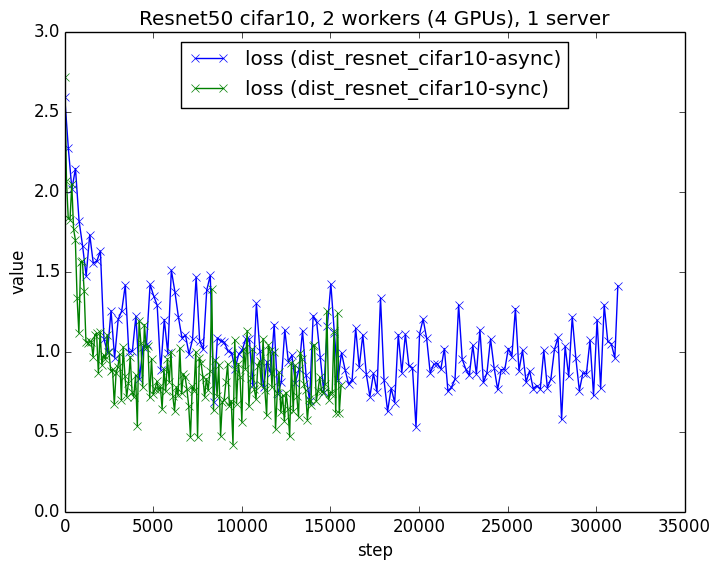
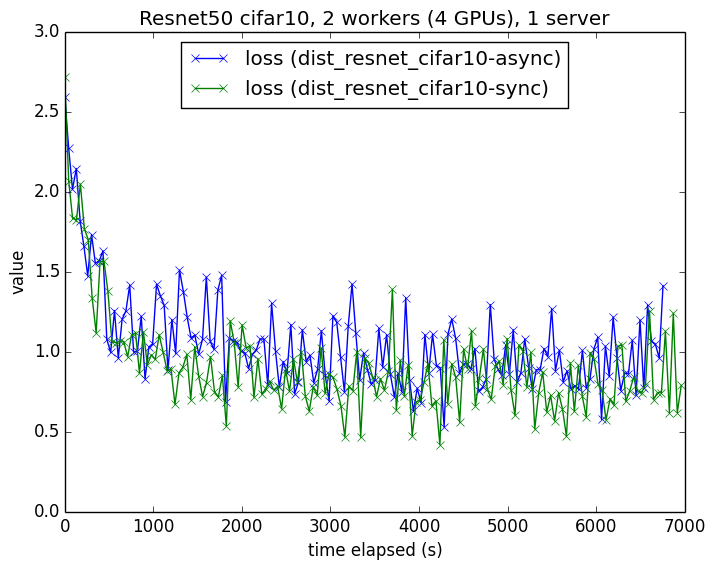
Plot over time elapsed instead of steps

diff --git a/plotting/plot.py b/plotting/plot.py
@@ -10,56 +10,57 @@ from subprocess import Popen, PIPE
 import sys 
 
 
-args = sys.argv
-if len(args) <= 2:
-  print "Usage: plot.py [title] [log_file1] [log_file2] ..."
-  sys.exit(1)
-title = args[1]
-log_files = args[2:]
-out_file = "output.png"
+# Parse and plot data from each file
+def plot_data(ax, log_files):
+  for log_file in log_files:
+    Popen(['./parse.py', log_file]).communicate()
+    csv_file = re.sub("\..*$", "", log_file) + ".csv"
+    step, time_elapsed, loss, learning_rate, cross_entropy, train_accuracy, global_step_per_sec =\
+      [], [], [], [], [], [], []
+    first_timestamp = None
+    with open(csv_file, "r") as f:
+      lines = f.readlines()[1:] # skip header
+      for line in lines:
+        s = line.split(",")
+        step.append(int(s[0]))
+        this_timestamp = long(s[1])
+        if first_timestamp is None:
+          first_timestamp = this_timestamp
+        time_elapsed.append(this_timestamp - first_timestamp)
+        loss.append(float(s[2]))
+        learning_rate.append(float(s[3]))
+        cross_entropy.append(float(s[4]))
+        train_accuracy.append(float(s[5]))
+        global_step_per_sec.append(float(s[6]))
+    name = log_file.lstrip("slurm-")
+    name = re.sub("\..*$", "", name)
+    name = re.sub("[-0-9]+$", "", name)
+    # Pick and choose what you want to plot!
+    #ax.plot(step, learning_rate, "-x", label="learning_rate (%s)" % name)
+    #ax.plot(step, cross_entropy, "-x", label="cross_entropy (%s)" % name)
+    #ax.plot(step[1:], global_step_per_sec[1:], "-x", label="global_step_per_sec (%s)" % name)
+    ax.plot(time_elapsed, loss, "-x", label="loss (%s)" % name)
+    #ax.plot(time_elapsed, train_accuracy, "-x", label="train accuracy (%s)" % name)
+    os.remove(csv_file)
 
-# Prepare plot
-fig = plt.figure()
-ax = fig.add_subplot(1, 1, 1)
+def main():
+  args = sys.argv
+  if len(args) <= 2:
+    print "Usage: plot.py [title] [log_file1] [log_file2] ..."
+    sys.exit(1)
+  title = args[1]
+  log_files = args[2:]
+  out_file = "output.png"
+  fig = plt.figure()
+  ax = fig.add_subplot(1, 1, 1)
+  plot_data(ax, log_files)
+  ax.set_xlabel("time elapsed (s)")
+  ax.set_ylabel("value")
+  legend = ax.legend(loc="upper center")
+  ax.set_title(title)
+  fig.savefig(out_file, bbox_extra_artists=(legend,), bbox_inches='tight')
+  print "Wrote to " + out_file
 
-# Plot data from each file
-for log_file in log_files:
-  Popen(['./parse.py', log_file]).communicate()
-  csv_file = re.sub("\..*$", "", log_file) + ".csv"
-  step = []
-  loss = []
-  learning_rate = []
-  cross_entropy = []
-  train_accuracy = []
-  global_step_per_sec = []
-  with open(csv_file, "r") as f:
-    lines = f.readlines()[1:] # skip header
-    for line in lines:
-      s = line.split(",")
-      step.append(int(s[0]))
-      loss.append(float(s[1]))
-      learning_rate.append(float(s[2]))
-      cross_entropy.append(float(s[3]))
-      train_accuracy.append(float(s[4]))
-      global_step_per_sec.append(float(s[5]))
-  name = log_file.lstrip("slurm-")
-  name = re.sub("\..*$", "", name)
-  name = re.sub("[-0-9]+$", "", name)
-  #ax.plot(step, loss, "-x", label="loss (%s)" % name)
-  #ax.plot(step, learning_rate, "-x", label="learning_rate (%s)" % name)
-  #ax.plot(step, cross_entropy, "-x", label="cross_entropy (%s)" % name)
-  ax.plot(step, train_accuracy, "-x", label="train accuracy (%s)" % name)
-  #ax.plot(step[1:], global_step_per_sec[1:], "-x", label="global_step_per_sec (%s)" % name)
-  os.remove(csv_file)
-
-# Finalize plot
-ax.set_xlabel("step")
-ax.set_ylabel("value")
-#legend = ax.legend(loc="upper center", bbox_to_anchor=(0.5, -0.1),\
-#  fancybox=True, shadow=True)
-legend = ax.legend(loc="lower center")
-ax.set_title(title)
-fig.savefig(out_file, bbox_extra_artists=(legend,), bbox_inches='tight')
-
-print "Wrote to " + out_file
+if __name__ == "__main__":
+  main()
 

diff --git a/plotting/parse.py b/plotting/parse.py
@@ -1,41 +1,58 @@
 #!/usr/bin/env python
 
+import datetime
 import re
 import sys
 
-args = sys.argv
-if len(args) <= 1:
-  print "Usage: parse.py [log_file]"
-  sys.exit(1)
-log_file = args[1]
-out_file = re.sub("\..*$", "", log_file) + ".csv"
 
-# Parse into list
-data = []
-with open(log_file, "r") as f:
-  loss = None
-  learning_rate = None
-  cross_entropy = None
-  train_accuracy = None
-  global_step_per_sec = None
-  for line in f.readlines():
-    if "tf_logging" not in line:
-      continue
-    if "learning_rate" in line:
-      m = re.match(".*learning_rate = ([\.0-9]+), cross_entropy = ([\.0-9]+), train_accuracy = ([\.0-9]+)", line)
-      (learning_rate, cross_entropy, train_accuracy) = m.groups()
-    elif "global_step/sec" in line:
-      m = re.match(".*global_step/sec: ([\.0-9]+)", line)
-      global_step_per_sec = m.groups()[0]
-    elif "loss" in line:
-      m = re.match(".*loss = ([\.0-9]+), step = ([\.0-9]+)", line)
-      (loss, step) = m.groups()
-      data += [",".join([step, loss, learning_rate, cross_entropy, train_accuracy, global_step_per_sec or "0"])]
+# Parse data from the log file, return a list of CSVs
+def parse_data(log_file):
+  data = []
+  with open(log_file, "r") as f:
+    loss = None
+    learning_rate = None
+    cross_entropy = None
+    train_accuracy = None
+    global_step_per_sec = None
+    for line in f.readlines():
+      if "tf_logging" not in line:
+        continue
+      if "learning_rate" in line:
+        m = re.match(".*learning_rate = ([\.\d]+), cross_entropy = ([\.\d]+), train_accuracy = ([\.\d]+)", line)
+        (learning_rate, cross_entropy, train_accuracy) = m.groups()
+      elif "global_step/sec" in line:
+        m = re.match(".*global_step/sec: ([\.\d]+)", line)
+        global_step_per_sec = m.groups()[0]
+      elif "loss" in line:
+        m = re.match(".*(\d\d\d\d \d\d:\d\d:\d\d).*loss = ([\.\d]+), step = ([\.\d]+)", line)
+        (timestamp, loss, step) = m.groups()
+        data += [",".join([step, parse_time(timestamp), loss, learning_rate,\
+          cross_entropy, train_accuracy, global_step_per_sec or "0"])]
+  return data
 
-# Write parsed data into CSV
-with open(out_file, "w") as f:
-  f.write("step,loss,learning_rate,cross_entropy,train_accuracy,global_step_per_sec\n")
-  for d in data:
-    f.write(d + "\n")
+# Parse timestamp in the format "MMDD hh:mm:ss" into a UNIX timestamp
+def parse_time(ts):
+  m = re.match("(\d\d)(\d\d) (\d\d):(\d\d):(\d\d)", ts)
+  (month, day, hour, minute, second) = m.groups()
+  dt = datetime.datetime(year=2018, month=int(month), day=int(day),\
+    hour=int(hour), minute=int(minute), second=int(second))
+  return dt.strftime('%s')
 
-print "Wrote to " + out_file
+def main():
+  args = sys.argv
+  if len(args) <= 1:
+    print "Usage: parse.py [log_file]"
+    sys.exit(1)
+  log_file = args[1]
+  out_file = re.sub("\..*$", "", log_file) + ".csv"
+  data = parse_data(log_file)
+  # Write parsed data into CSV
+  with open(out_file, "w") as f:
+    f.write("step,timestamp,loss,learning_rate,cross_entropy,train_accuracy,global_step_per_sec\n")
+    for d in data:
+      f.write(d + "\n")
+  print "Wrote to " + out_file
+
+if __name__ == "__main__":
+  main()
+
